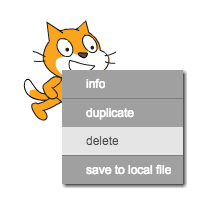
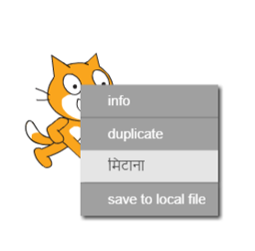
Add Bengali and Persian + update Hindi

Changed region(s): [[0.0826, 0.0861, 0.8807, 0.9187], [0.3853, 0.3732, 0.5229, 0.4306]]

diff --git a/hi-IN/step_1.md b/hi-IN/step_1.md
@@ -1,13 +1,13 @@
-आप Scratch को ऑनलाइन या ऑफ़लाइन उपयोग कर सकते हैं।
+आप स्क्रैच को ऑनलाइन या ऑफ़लाइन उपयोग कर सकते हैं।
 
-+ ऑनलाइन एडिटर द्वारा नया Scratch प्रोजेक्ट बनाने के लिए, <a href="http://jumpto.cc/scratch-new" target="_blank">jumpto.cc/scratch-new</a> पर जाएँ।
++ ऑनलाइन एडिटर द्वारा नया स्क्रैच प्रोजेक्ट बनाने के लिए, <a href="http://jumpto.cc/scratch-new" target="_blank">jumpto.cc/scratch-new</a> पर जाएँ।
 
 + यदि आप ऑफ़लाइन काम करना चाहें और अभी एडिटर को इनस्टॉल नहीं किया है, तो आप <a href="http://jumpto.cc/scratch-off" target="_blank">jumpto.cc/scratch-off</a> से इसे डाउनलोड कर सकते हैं।
+    
+    स्क्रैच एडिटर इस प्रकार दिखाई देता है:
+    
+    ![स्क्रीनशॉट](images/scratch-editor.png)
 
-	Scratch कुछ इस प्रकार दिखाई देता है:
-
-	![screenshot](images/scratch-editor.png)
-
-+ आप जो cat स्प्राइट देख सकते हैं, वह Scratch मस्कट है। यदि आप खाली Scratch प्रोजेक्ट चाहते हैं, तो आप cat पर राइट क्लिक करके और फिर __delete__ पर क्लिक करके इसे मिटा सकते हैं।
-
-	![screenshot](images/delete.png)
++ आप जो बिल्ली स्प्राइट देख सकते हैं, वह स्क्रैच प्रतिकृति है। यदि आप खाली स्क्रैच प्रोजेक्ट चाहते हैं, तो आप 'बिल्ली' पर राइट क्लिक करके और फिर **delete** पर क्लिक करके इसे हटा सकते हैं।
+    
+    ![स्क्रीनशॉट](images/delete.png)

diff --git a/bn-BD/step_1.md b/bn-BD/step_1.md
@@ -1,0 +1,13 @@
+আপনি স্ক্র্যাচ অনলাইন বা অফলাইন ভার্শন ব্যবহার করতে পারেন।
+
++ অনলাইন এডিটরে একটি নতুন স্ক্র্যাচ প্রজেক্ট তৈরি করার জন্য <a href="http://jumpto.cc/scratch-new" target="_blank">jumpto.cc/scratch-new</a> -তে যান।
+
++ যদি আপনি অফলাইনে কাজ করতে পছন্দ করেন এবং এখনো স্ক্র্যাচ এডিটর ইনস্টল না করে থাকেন, তাহলে আপনি <a href="http://jumpto.cc/scratch-off" target="_blank">jumpto.cc/scratch-off</a> -এই লিংক থেকে স্ক্র্যাচ অফলাইন ভার্শন ডাউনলোড করতে পারেন।
+    
+    স্ক্র্যাচ এডিটরটি দেখতে এরকম:
+    
+    ![screenshot](images/scratch-editor.png)
+
++ আপনি যে বিড়াল স্প্রাইট দেখতে পাবেন তা হচ্ছে স্ক্র্যাচের মাসকট। আপনি যদি একে ডিলিট করতে চান তাহলে এর উপর রাইট-ক্লিক করুন এবং **delete** ক্লিক করুন।
+    
+    ![screenshot](images/delete.png)

diff --git a/fa-IR/step_1.md b/fa-IR/step_1.md
@@ -1,0 +1,13 @@
+شما می توانید از اسکرچ به صورت آنلاین یا آفلاین استفاده کنید.
+
++ برای ایجاد یک پروژهی جدید اسکرچ با استفاده از ویرایشگر آنلاین، به <a href="http://jumpto.cc/scratch-new" target="_blank">jumpto.cc/scratch-new</a> بروید.
+
++ اگر ترجیح میدهید آفلاین کار کنید و هنوز ویرایشگر را نصب نکردهاید، میتوانید آن را از <a href="http://jumpto.cc/scratch-off" target="_blank">jumpto.cc/scratch-off</a> دانلود کنید.
+    
+    ویرایشگر اسکرچ مانند این است:
+    
+    ![عکس صفحه](images/scratch-editor.png)
+
++ شبح گربه که آن را میبینید، نماد اسکرچ است. اگر شما نیاز به یک پروژهی خالی اسکرچ دارید، میتوانید با کلیک راست بر روی گربه و سپس کلیک روی **حذف**، آن را حذف کنید.
+    
+    ![عکس صفحه](images/delete.png)

diff --git a/bn-BD/index.md b/bn-BD/index.md
@@ -1,0 +1,1 @@
+# new-scratch-project

diff --git a/fa-IR/index.md b/fa-IR/index.md
@@ -1,0 +1,1 @@
+# new-scratch-project

diff --git a/hi-IN/index.md b/hi-IN/index.md
@@ -1,0 +1,1 @@
+# new-scratch-project
